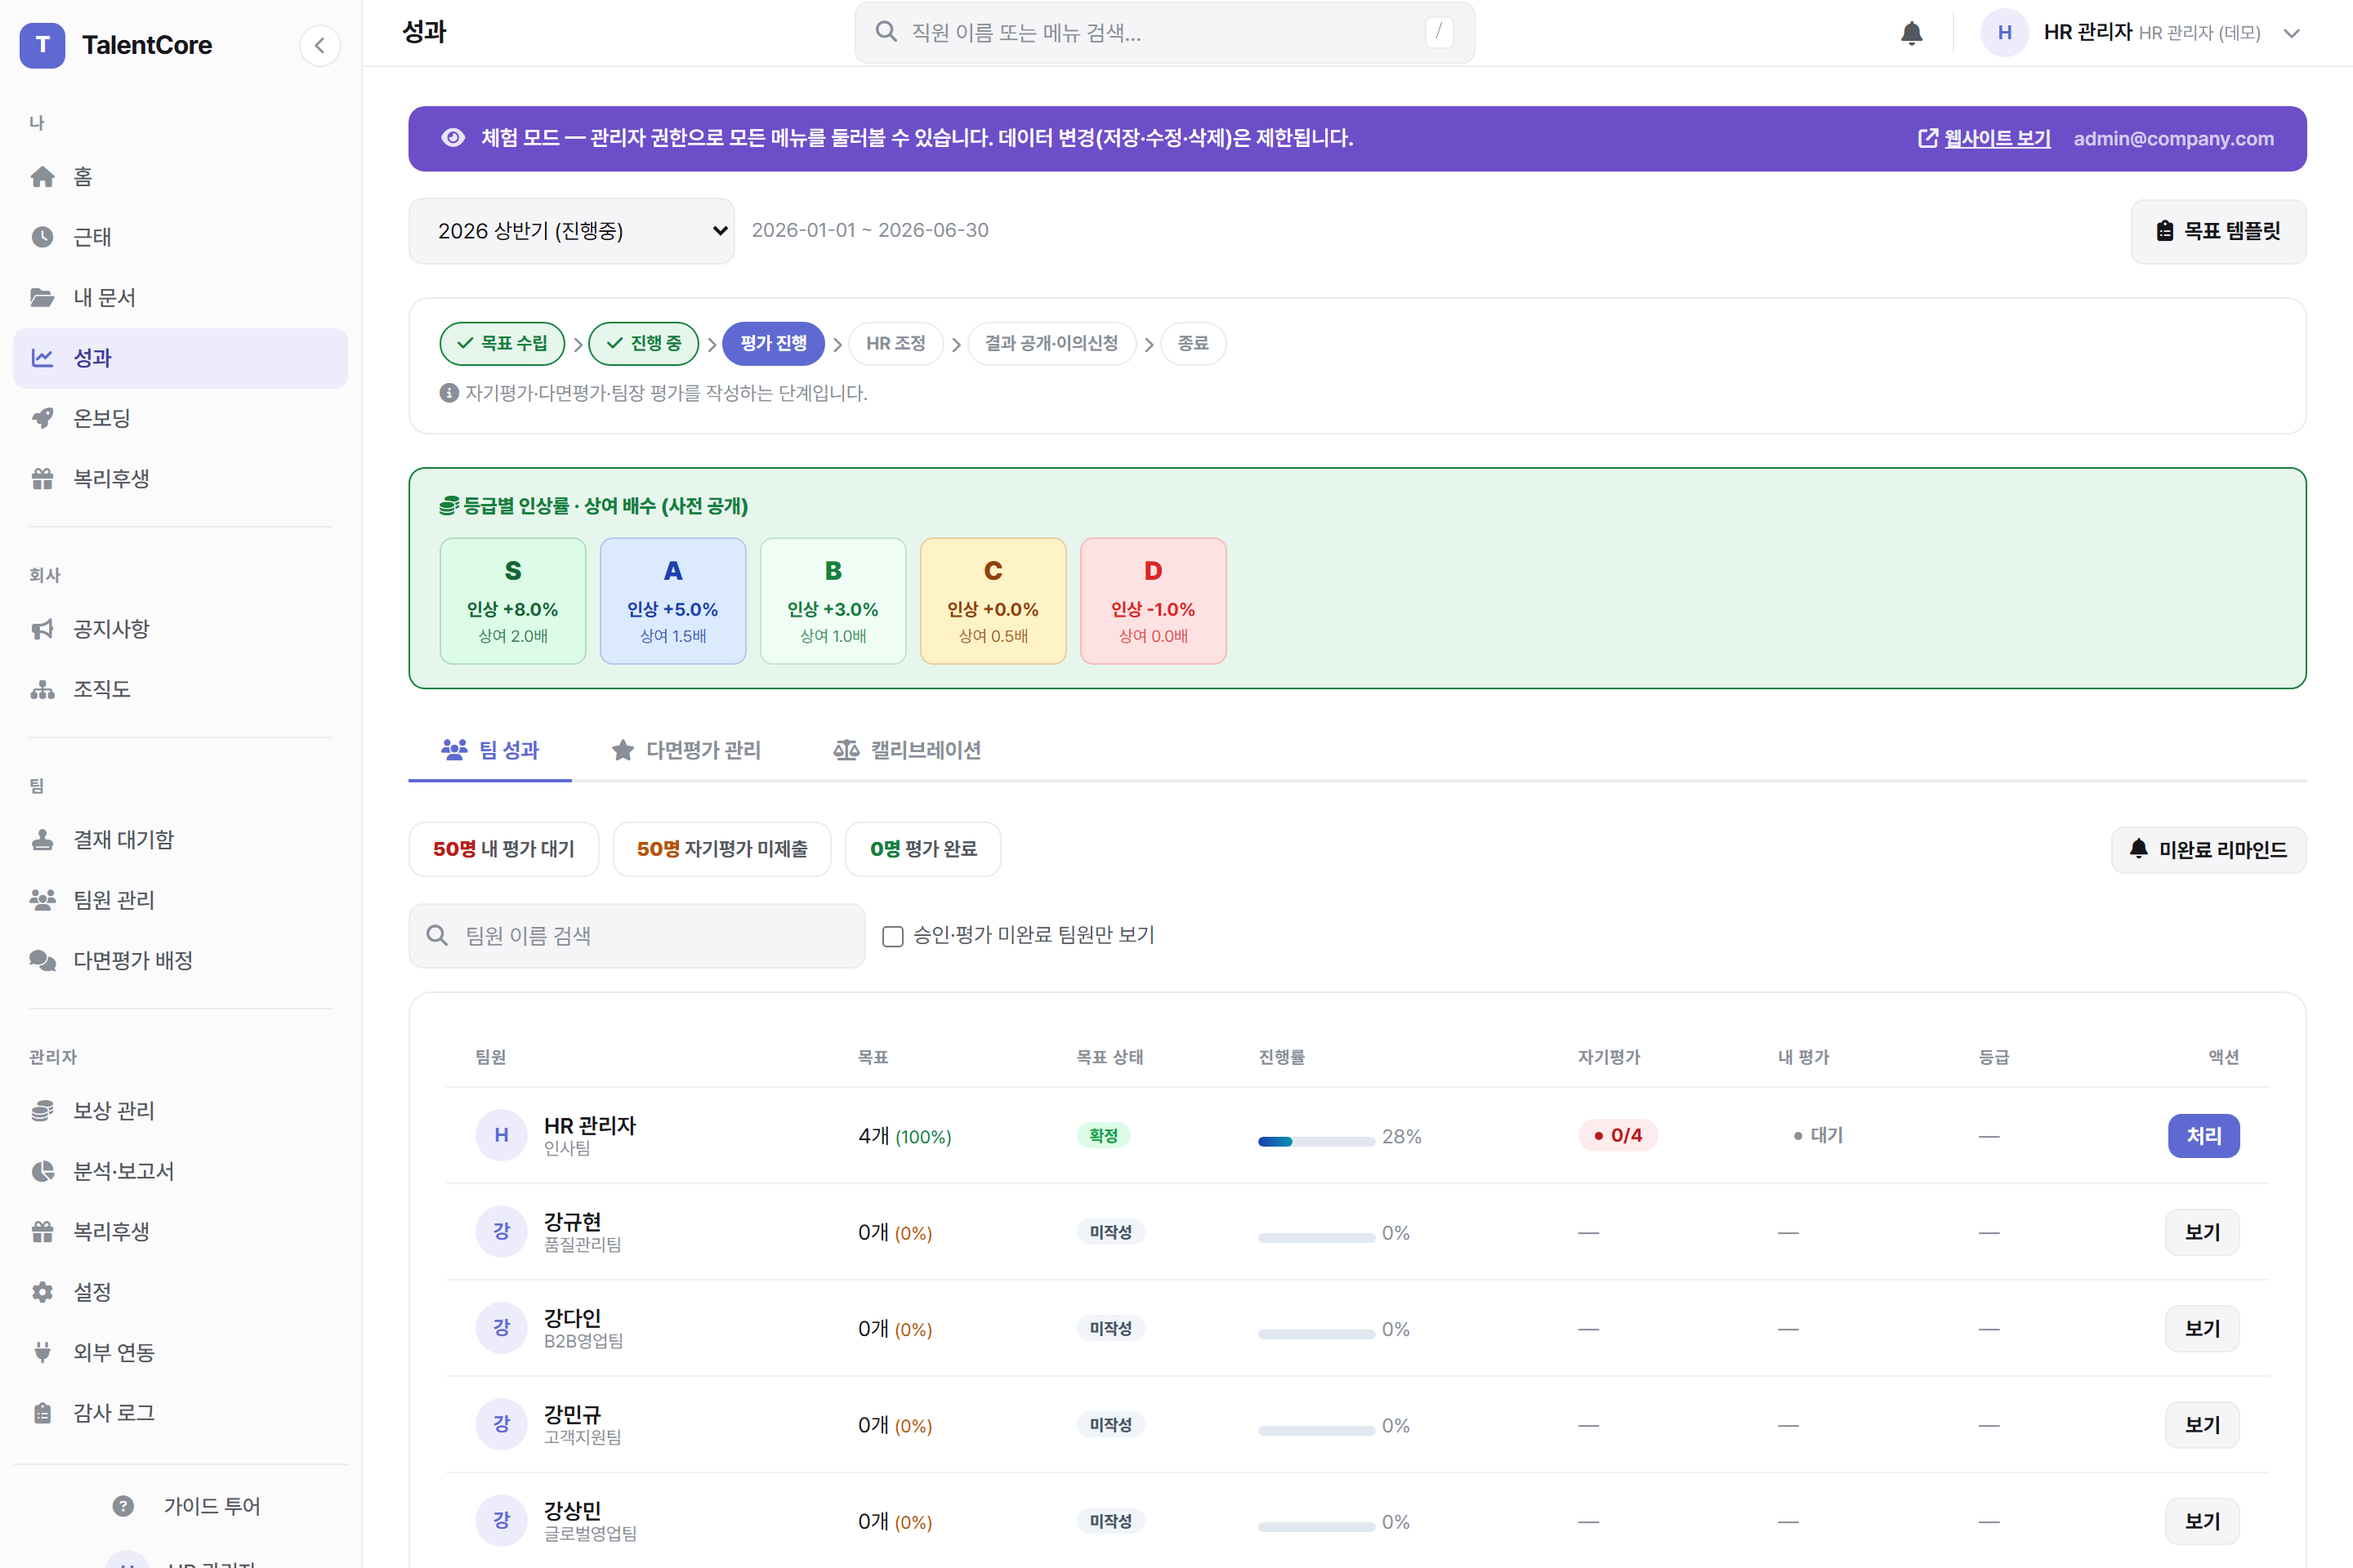
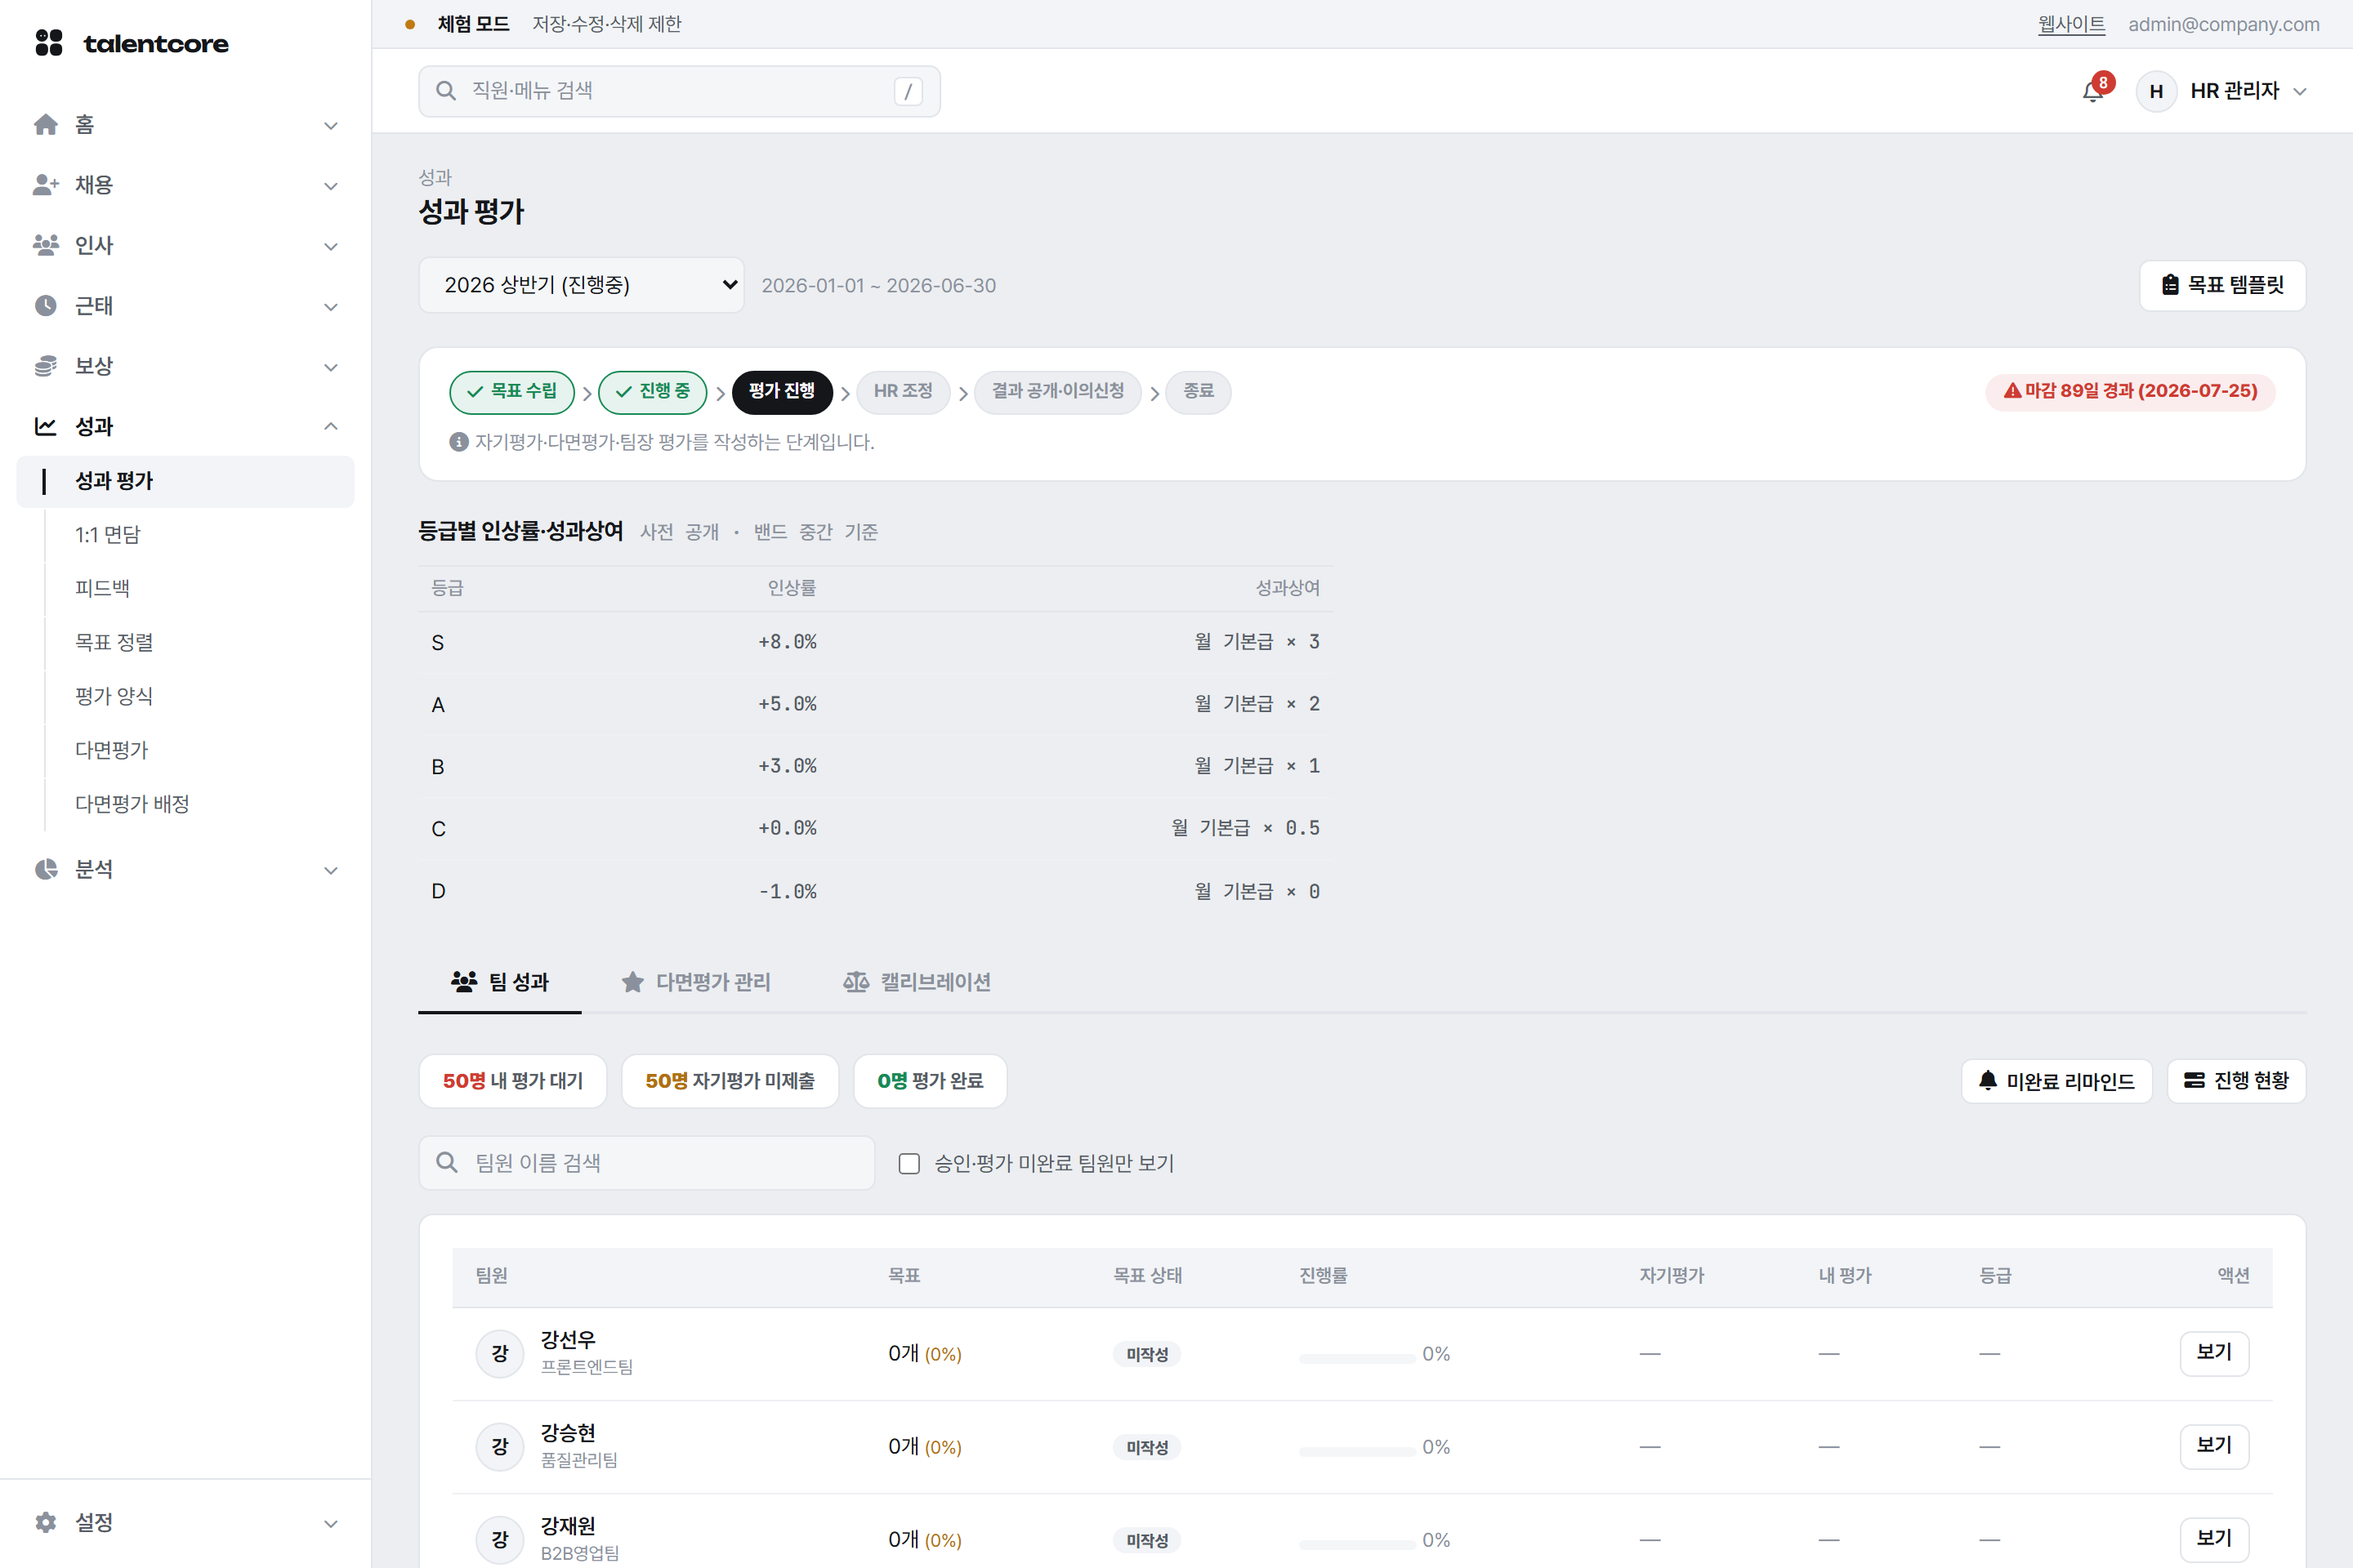
Core: README 옛 데모 GIF 삭제 + 화면 사진 6장 다시 찍음

diff --git a/README.md b/README.md
@@ -8,8 +8,6 @@
 **라이브 데모:** https://talentcore.duckdns.org → 랜딩에서 **[데모 보기]**
 가입 없이 관리자 권한으로 모든 화면을 둘러볼 수 있습니다(읽기 전용, 저장·수정 차단). 약 180명 규모의 샘플 회사가 들어 있습니다.
 
-![TalentCore 제품 데모](docs/talentcore-demo.gif)
-
 ---
 
 ## TalentCore Suite 안에서의 자리
@@ -35,9 +33,9 @@ Core 는 제품군의 **중심 장부**입니다. 사람·조직·계정은 Core
 | ![홈](docs/screenshots/01-dashboard.png) | ![인사 분석](docs/screenshots/06-analytics.png) |
 | **홈**: 출퇴근 · 검색 · 처리할 일 | **인사 분석**: 확인 필요 항목 · 분야별 탭 |
 | ![보상 관리](docs/screenshots/03-compensation.png) | ![성과 관리](docs/screenshots/04-performance.png) |
-| **보상**: 급여 밴드 · Compa-Ratio | **성과**: 명단 · 다면평가 · 캘리브레이션 |
-| ![조직도](docs/screenshots/05-org.png) | ![근태 관리](docs/screenshots/02-attendance.png) |
-| **조직도**: 보고 라인 · 인물 패널 | **근태**: 출퇴근 · 주 52시간 · 휴가 |
+| **보상**: 급여 밴드 · Compa-Ratio | **성과**: 평가 단계 · 등급별 보상 · 팀 진행 |
+| ![조직도](docs/screenshots/05-org.png) | ![근태 승인](docs/screenshots/02-attendance.png) |
+| **조직도**: 보고 라인 · 인물 패널 | **근태**: 휴가 승인 · 1차·2차 검토 |
 
 ---
 
